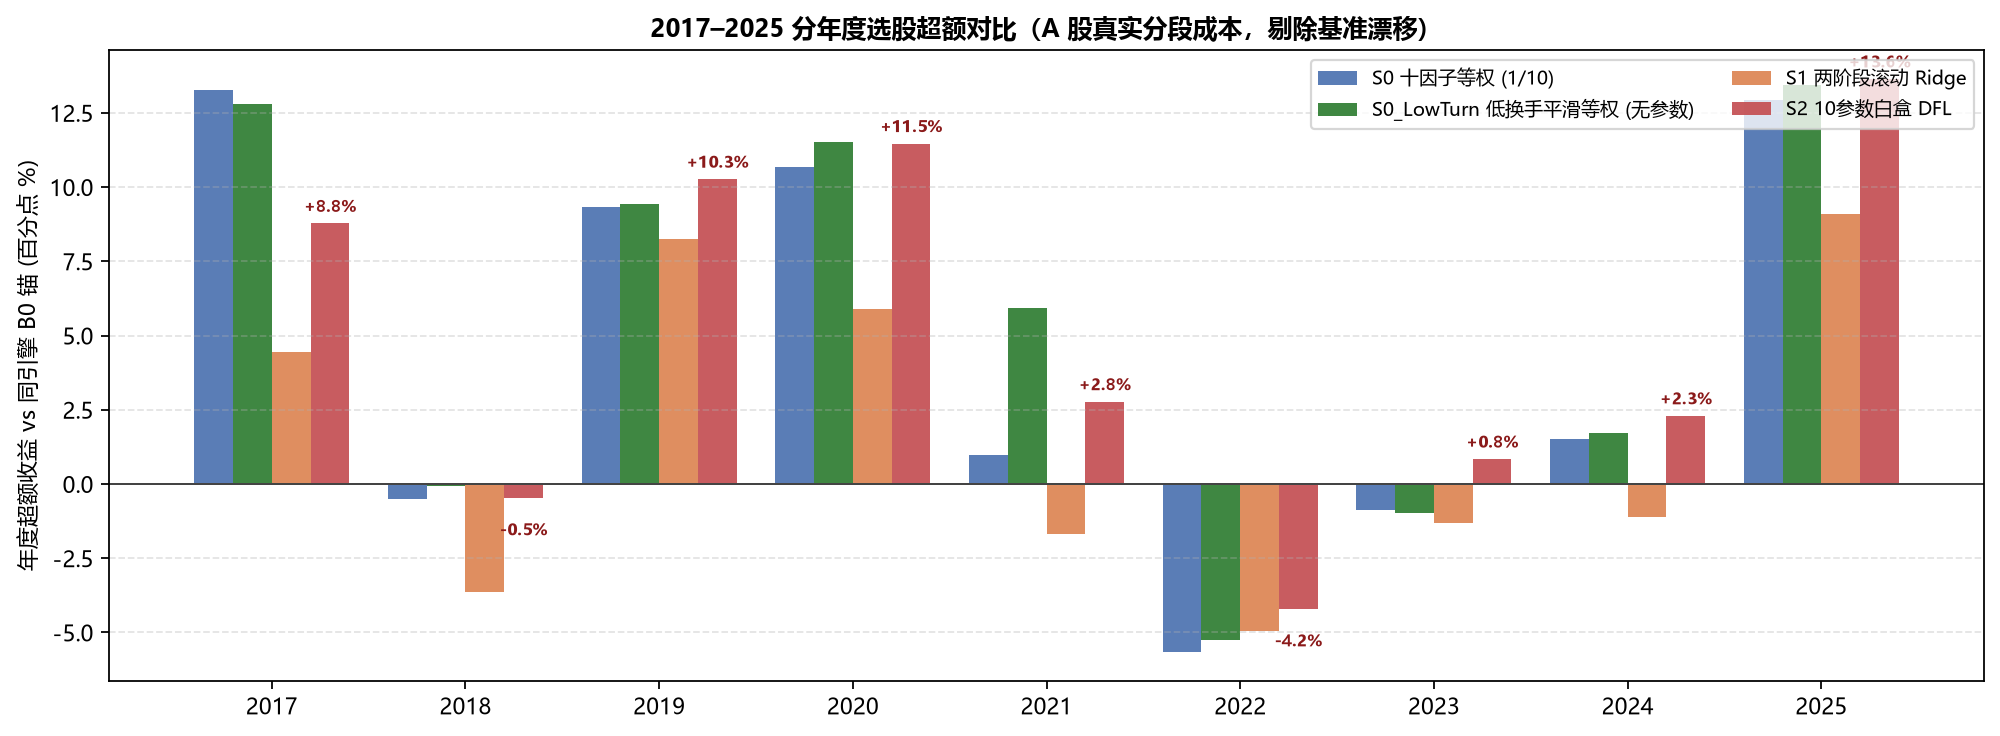
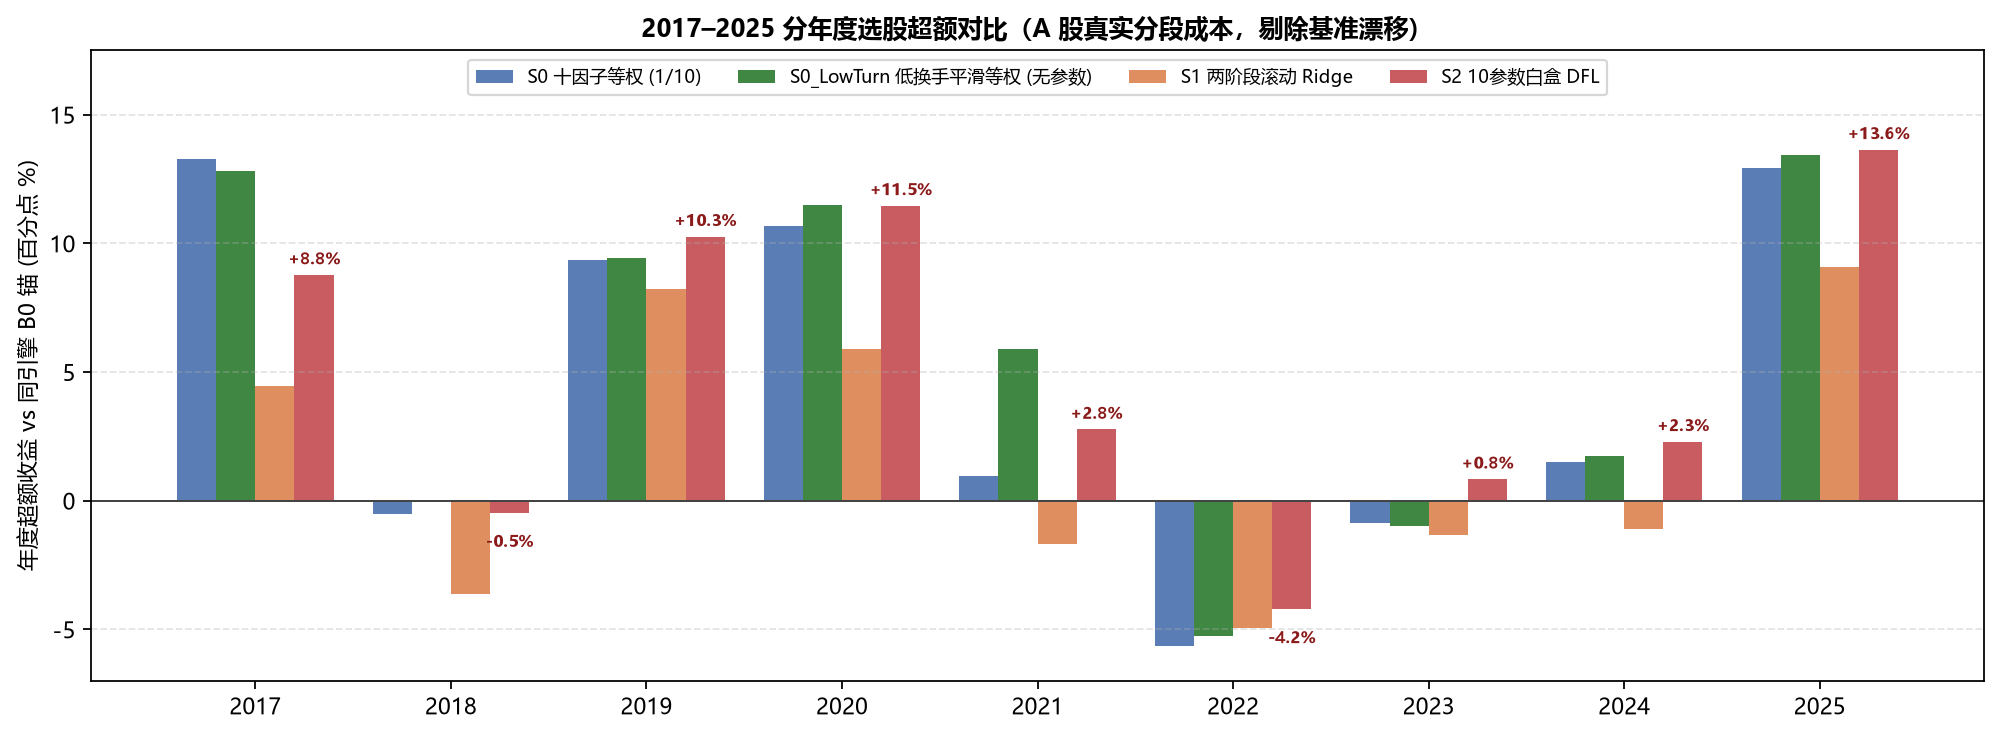
Fix legend headroom in v2 yearly excess figure

diff --git a/scripts/05_plot_defense_figures.py b/scripts/05_plot_defense_figures.py
@@ -101,10 +101,11 @@ def plot_yearly_excess(rep_dir: Path, out_dir: Path) -> Path:
     ax.axhline(0.0, color="#444444", linewidth=0.9)
     ax.set_xticks(x)
     ax.set_xticklabels(years)
+    ax.set_ylim(-7.0, 17.5)
     ax.set_ylabel("年度超额收益 vs 同引擎 B0 锚 (百分点 %)")
     ax.set_title("2017–2025 分年度选股超额对比（A 股真实分段成本，剔除基准漂移）", fontsize=11.3, fontweight="bold")
     ax.grid(True, axis="y", linestyle="--", alpha=0.35)
-    ax.legend(loc="upper right", ncol=2, fontsize=8.6, frameon=True)
+    ax.legend(loc="upper center", ncol=4, fontsize=8.3, frameon=True)
     fig.tight_layout()
 
     target = out_dir / "yearly_excess_comparison.png"
